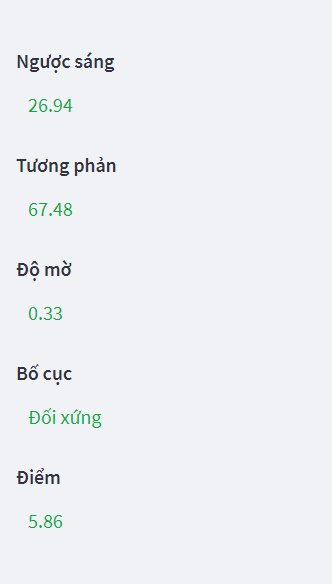
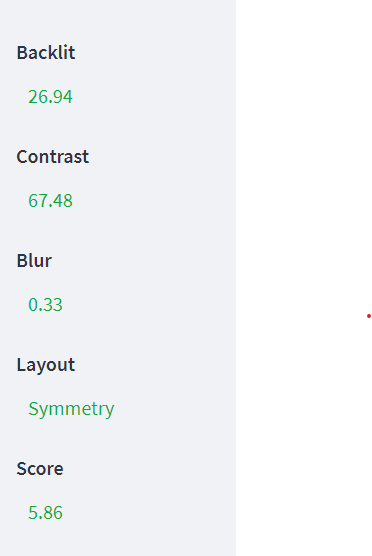
Fix syntax

diff --git a/assess.py b/assess.py
@@ -308,24 +308,24 @@ def detect_layout(img_rgb, img_gray, filename, score_sym, threshold_sym=0.6):
     if is_symmetry:
         if is_onethird: 
             save_image(img_bb, img_bin, "Onethird, Symmetry", filename)
-            return "Một phần ba, Đối xứng", [score_onethird, max_score_sym]
+            return "Onethird, Symmetry", [score_onethird, max_score_sym]
         elif is_center: 
             save_image(img_bb, img_bin, "Center, Symmetry", filename)
-            return "Trung tâm, Đối xứng", [score_center, max_score_sym]
+            return "Center, Symmetry", [score_center, max_score_sym]
         else:
             save_image(img_bb, img_bin, "Symmetry", filename)
-            return "Đối xứng", [max_score_sym]
+            return "Symmetry", [max_score_sym]
 
     else:
         if is_onethird: 
             save_image(img_bb, img_bin, "Onethird", filename)
-            return "Một phần ba", [score_onethird]
+            return "Onethird", [score_onethird]
         elif is_center: 
             save_image(img_bb, img_bin, "Center", filename)
-            return "Trung tâm", [score_center]
+            return "Center", [score_center]
         else:
             save_image(img_bb, img_bin, "Not Layout", filename)
-            return "Không tìm được", [0]
+            return "Not find", [0]
     
 
 def percent_contrast_(image, threshold=0.65, lower_percentile=1, upper_percentile=99):

diff --git a/streamlit_app.py b/streamlit_app.py
@@ -86,22 +86,22 @@ def main_gui():
 
 
                 # st.header('Ngược sáng')
-                st.markdown(header('Ngược sáng'), unsafe_allow_html=True)
+                st.markdown(header('Backlit'), unsafe_allow_html=True)
                 st.markdown(backlit, unsafe_allow_html=True)
 
                 # st.header('Tương phản')
-                st.markdown(header('Tương phản'), unsafe_allow_html=True)
+                st.markdown(header('Contrast'), unsafe_allow_html=True)
                 st.markdown(contrast, unsafe_allow_html=True)
 
                 # st.header('Mờ')
-                st.markdown(header('Độ mờ'), unsafe_allow_html=True)
+                st.markdown(header('Blur'), unsafe_allow_html=True)
                 st.markdown(blur, unsafe_allow_html=True)
 
                 # st.header('Bố cục')
-                st.markdown(header('Bố cục'), unsafe_allow_html=True)
+                st.markdown(header('Layout'), unsafe_allow_html=True)
                 st.markdown(layout, unsafe_allow_html=True)
 
-                st.markdown(header('Điểm'), unsafe_allow_html=True)
+                st.markdown(header('Score'), unsafe_allow_html=True)
                 st.markdown(score, unsafe_allow_html=True)
                 
             
